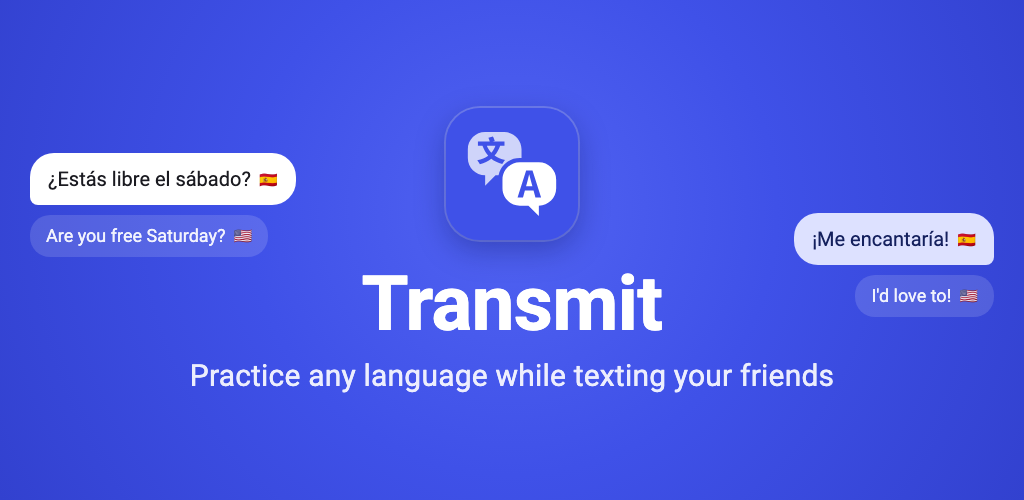
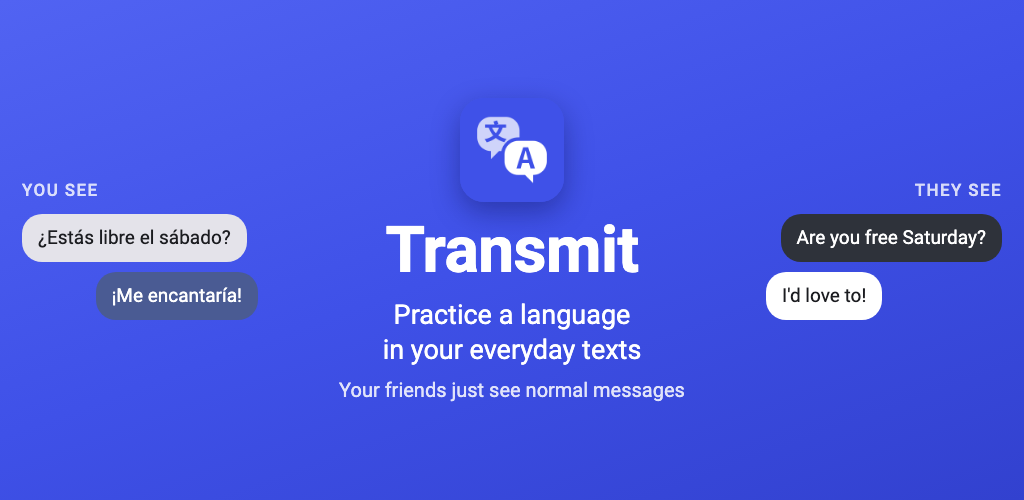
Store graphics: you practice in your real texts, they just see normal ones
New feature graphic and seven screenshots built around the two points the
listing has to land: Transmit works in your SMS and RCS chats, and the
people you text see ordinary messages in their language. Shot 1 shows
Kyle's chat in Spanish beside a generic mockup of what Kyle sees in
English. Captions name the languages instead of saying "practice
language". The friends are Kyle and Rachel, names that aren't Spanish or
Japanese, and Rachel no longer remarks on your Japanese.

All AI text is real managed-model output from the reviewer demo.
make.py re-renders the captioned shots from screenshots/raw/.

Claude-Session: https://claude.ai/code/session_012Mv2KruVcPoPP9SfyyGrdT

diff --git a/docs/launch/store-assets/make.py b/docs/launch/store-assets/make.py
@@ -1,0 +1,159 @@
+import os, sys, subprocess, html
+"""Renders the store graphics: the feature graphic and the captioned screenshots, from screenshots/raw/.
+
+Run with a Python that has Pillow (macOS: /usr/bin/python3 make.py). Needs Google Chrome, Roboto from the Android
+SDK, and the emulator's emoji font, so the mockup's emoji match the screenshots:
+    adb -s emulator-5554 pull /system/fonts/NotoColorEmoji.ttf "$TMPDIR/"
+"""
+import tempfile
+from PIL import Image
+A = os.path.dirname(os.path.abspath(__file__))
+R = A + '/screenshots/raw'
+G = tempfile.mkdtemp(prefix='store-assets-')
+os.makedirs(G + '/out'); os.makedirs(G + '/fonts')
+SDK_FONTS = os.path.expanduser('~/Library/Android/sdk/platforms/android-26/data/fonts')
+for f in ('Roboto-Regular.ttf', 'Roboto-Medium.ttf', 'Roboto-Bold.ttf'):
+    os.symlink(f'{SDK_FONTS}/{f}', f'{G}/fonts/{f}')
+os.symlink(os.path.join(os.environ.get('TMPDIR', '/tmp'), 'NotoColorEmoji.ttf'), f'{G}/fonts/NotoColorEmoji.ttf')
+os.symlink(A + '/icon-512.png', G + '/icon-512.png')
+# The "what you see" card: the chat's top bar and first messages, without the empty space above "Today".
+_im = Image.open(R + '/01-chat.png').convert('RGB')
+_top, _msgs = _im.crop((0, 72, 1080, 215)), _im.crop((0, 400, 1080, 985))
+_card = Image.new('RGB', (1080, _top.height + _msgs.height)); _card.paste(_top, (0, 0)); _card.paste(_msgs, (0, _top.height))
+_card.save(G + '/card-you.png')
+CHROME = '/Applications/Google Chrome.app/Contents/MacOS/Google Chrome'
+
+FONTS = f'''
+@font-face{{font-family:Roboto;font-weight:400;src:url(file://{G}/fonts/Roboto-Regular.ttf)}}
+@font-face{{font-family:Roboto;font-weight:500;src:url(file://{G}/fonts/Roboto-Medium.ttf)}}
+@font-face{{font-family:Roboto;font-weight:700;src:url(file://{G}/fonts/Roboto-Bold.ttf)}}
+@font-face{{font-family:NotoEmoji;src:url(file://{G}/fonts/NotoColorEmoji.ttf)}}
+'''
+BASE = FONTS + '''
+*{box-sizing:border-box}
+html,body{margin:0}
+body{width:1080px;height:1920px;overflow:hidden;position:relative;color:#fff;
+  font-family:Roboto,NotoEmoji,sans-serif;
+  background:linear-gradient(165deg,#5163F2 0%,#3F51E8 48%,#3241CF 100%)}
+.head{position:absolute;left:0;right:0;top:0;display:flex;flex-direction:column;justify-content:center;
+  align-items:center;text-align:center;padding:0 80px}
+h1{margin:0;font-weight:700;font-size:72px;line-height:1.12;letter-spacing:-.5px;text-wrap:balance}
+.sub{margin:26px 0 0;font-size:38px;line-height:1.32;opacity:.9;text-wrap:balance}
+.phone{position:absolute;background:#15161c;border-radius:66px;padding:17px;
+  box-shadow:0 34px 90px rgba(12,18,90,.5)}
+.phone img{display:block;border-radius:50px}
+'''
+
+def page(name, body, css='', w=1080, h=1920):
+    path = f'{G}/out/{name}.html'
+    open(path, 'w').write(f'<!doctype html><html><head><meta charset="utf-8"><style>{BASE}{css}</style></head><body>{body}</body></html>')
+    png = f'{G}/out/{name}.png'
+    subprocess.run([CHROME, '--headless=new', '--disable-gpu', '--hide-scrollbars', '--allow-file-access-from-files',
+                    '--force-device-scale-factor=1', f'--window-size={w},{h}', '--virtual-time-budget=3000',
+                    f'--screenshot={png}', f'file://{path}'], check=True, capture_output=True)
+    # Play takes 24-bit PNGs, without alpha.
+    dest = f'{A}/feature-graphic-1024x500.png' if name == 'feature-graphic' else f'{A}/screenshots/captioned/{name}.png'
+    Image.open(png).convert('RGB').save(dest, optimize=True)
+    return dest
+
+def one_phone(name, raw, title, sub=None):
+    sw = 760; sh = round(sw * 1920 / 1080)          # screen 760 x 1351
+    fw = sw + 34; fh = sh + 34
+    top = 1920 - fh - 64
+    subh = f'<p class="sub">{sub}</p>' if sub else ''
+    body = f'''<div class="head" style="height:{top}px"><h1>{title}</h1>{subh}</div>
+      <div class="phone" style="left:{(1080-fw)//2}px;top:{top}px"><img src="file://{R}/{raw}" width="{sw}" height="{sh}"></div>'''
+    return page(name, body)
+
+# ---- 1: what you see vs what they see -------------------------------------------------------
+def you_vs_them():
+    k = 900 / 1080   # the real screen's scale on the card
+    px = lambda v: f'{v * k:.1f}px'
+    css = f'''
+    .label{{position:absolute;left:90px;font-size:32px;font-weight:500;letter-spacing:.3px;
+      background:rgba(255,255,255,.16);padding:10px 26px;border-radius:999px}}
+    .card{{position:absolute;left:90px;width:900px;border-radius:40px;overflow:hidden;
+      box-shadow:0 26px 70px rgba(12,18,90,.45)}}
+    .card img{{display:block}}
+    .them{{background:#fff;color:#1b1c20;font-family:Roboto,NotoEmoji,sans-serif;padding-bottom:{px(26)}}}
+    .bar{{height:{px(143)};display:flex;align-items:center;padding:0 {px(40)};gap:{px(30)};border-bottom:1px solid #eceef1}}
+    .arrow{{font-size:{px(56)};line-height:1;color:#3a3d44}}
+    .av{{width:{px(94)};height:{px(94)};border-radius:50%;background:#F08A5D;color:#fff;font-weight:500;
+      font-size:{px(44)};display:flex;align-items:center;justify-content:center}}
+    .name{{font-size:{px(40)};font-weight:700}}
+    .msgs{{padding:{px(28)} {px(22)} 0;display:flex;flex-direction:column}}
+    .b{{max-width:{px(735)};font-size:{px(41)};line-height:1.53;padding:{px(26)} {px(32)};border-radius:{px(44)};margin-bottom:{px(6)}}}
+    .out{{align-self:flex-end;background:#2E323A;color:#fff}}
+    .in{{align-self:flex-start;background:#EEF0F3}}
+    .t{{font-size:{px(28)};color:#6b6f78;margin:{px(10)} {px(18)} {px(30)}}}
+    .t.r{{align-self:flex-end}}
+    .foot{{position:absolute;left:0;right:0;top:1822px;text-align:center;font-size:36px;opacity:.92}}
+    '''
+    body = f'''
+    <div class="head" style="height:300px"><h1>You text in Spanish.<br>They see English.</h1></div>
+    <div class="label" style="top:316px">What you see</div>
+    <div class="card" style="top:384px"><img src="file://{G}/card-you.png" width="900"></div>
+    <div class="label" style="top:1024px">What Kyle sees</div>
+    <div class="card them" style="top:1092px">
+      <div class="bar"><span class="arrow">&#8592;</span><div class="av">A</div><span class="name">Alex</span></div>
+      <div class="msgs">
+        <div class="b out">Are you free Saturday? My cousin is visiting and we're going to try the new tapas bar</div>
+        <div class="b out">You should come! 🥘</div>
+        <div class="t r">9:13 AM</div>
+        <div class="b in">I'd love to! What time?</div>
+        <div class="t">9:20 AM</div>
+      </div>
+    </div>
+    <div class="foot">Kyle gets ordinary texts. No app needed.</div>'''
+    return page('01-you-vs-them', body, css)
+
+# ---- 7: a language per chat: two phones ------------------------------------------------------
+def per_chat():
+    sw = 640; sh = round(sw * 1920 / 1080); fw = sw + 34; fh = sh + 34
+    body = f'''<div class="head" style="height:500px"><h1>Spanish with Kyle,<br>Japanese with Rachel</h1>
+      <p class="sub">Pick a language for each chat</p></div>
+      <div class="phone" style="left:44px;top:556px"><img src="file://{R}/01-chat.png" width="{sw}" height="{sh}"></div>
+      <div class="phone" style="left:{1080-44-fw}px;top:646px;box-shadow:-24px 34px 90px rgba(12,18,90,.6)"><img src="file://{R}/07-rachel.png" width="{sw}" height="{sh}"></div>'''
+    return page('07-per-chat', body)
+
+# ---- feature graphic -------------------------------------------------------------------------
+def feature():
+    css = f'''
+    body{{width:1024px;height:500px;background:linear-gradient(160deg,#5163F2 0%,#3F51E8 50%,#3241CF 100%)}}
+    .mid{{position:absolute;left:262px;width:500px;top:0;bottom:0;display:flex;flex-direction:column;align-items:center;justify-content:center;text-align:center}}
+    .mid img{{width:104px;height:104px;border-radius:24px;box-shadow:0 10px 28px rgba(10,15,80,.4)}}
+    .mid .n{{font-size:64px;font-weight:700;margin-top:14px;letter-spacing:-.5px;line-height:1.1}}
+    .mid .l{{font-size:27px;line-height:1.3;margin-top:12px;text-wrap:balance}}
+    .mid .s{{font-size:20px;margin-top:10px;opacity:.85}}
+    .col{{position:absolute;top:0;bottom:0;width:236px;display:flex;flex-direction:column;justify-content:center;gap:10px}}
+    .col.l{{left:22px}} .col.r{{right:22px}}
+    .cap{{font-size:17px;font-weight:500;letter-spacing:1.4px;text-transform:uppercase;opacity:.8;margin-bottom:4px}}
+    .col.r .cap{{text-align:right}}
+    .b{{font-size:19px;line-height:1.35;padding:11px 16px;border-radius:20px;max-width:226px}}
+    .you-in{{align-self:flex-start;background:#E4E3EA;color:#1b1c20}}
+    .you-out{{align-self:flex-end;background:#4A5B93;color:#fff}}
+    .them-out{{align-self:flex-end;background:#2E323A;color:#fff}}
+    .them-in{{align-self:flex-start;background:#fff;color:#1b1c20}}
+    '''
+    body = f'''
+    <div class="col l"><div class="cap">You see</div>
+      <div class="b you-in">¿Estás libre el sábado?</div><div class="b you-out">¡Me encantaría!</div></div>
+    <div class="mid"><img src="file://{G}/icon-512.png"><div class="n">Transmit</div>
+      <div class="l">Practice a language in your everyday texts</div>
+      <div class="s">Your friends just see normal messages</div></div>
+    <div class="col r"><div class="cap">They see</div>
+      <div class="b them-out">Are you free Saturday?</div><div class="b them-in">I'd love to!</div></div>'''
+    return page('feature-graphic', body, css, 1024, 500)
+
+if __name__ == '__main__':
+    outs = [
+        you_vs_them(),
+        one_phone('02-inbox', '02-inbox.png', 'Your real texts, SMS and RCS', "Same number, same chats. Your friends don't install anything."),
+        one_phone('03-original', '03-original.png', 'Read every text in Spanish', 'Stuck? Tap to see what they actually wrote.'),
+        one_phone('04-reply', '04-reply.png', 'Reply in Spanish', 'See the English Kyle will get before you send.'),
+        one_phone('05-check', '05-check.png', 'Get corrected before you hit send', 'Fixes your mistakes and says why.'),
+        one_phone('06-explain', '06-explain.png', 'Understand the grammar, idioms and slang', 'Tap Explain on any message.'),
+        per_chat(),
+        feature(),
+    ]
+    print('\n'.join(outs))

diff --git a/docs/launch/store-assets/README.md b/docs/launch/store-assets/README.md
@@ -1,60 +1,46 @@
 # Google Play store graphics
 
-Made on 2026-11-20 for the Main store listing (`../store-listing.md`, Graphics and Screenshot captions), and retaken the same day with real AI output. Every file's size, format and dimensions were checked by script.
+Remade on 2026-11-21 around one message: you practice a language in your real SMS and RCS chats, and the people you text just see normal messages. The captions name real languages ("Spanish", "English") instead of "practice language" or "native language". Every file's size and format was checked by script.
 
 ## Files
 
 | File | Size | Format | What it is |
 | --- | --- | --- | --- |
-| `icon-512.png` | 512 × 512 | PNG, 32-bit (RGBA, opaque), 13 KB | App icon: the adaptive launcher icon's middle 72 dp (what launchers show) as a full square. Play adds the rounded mask and shadow. Unchanged in the retake. |
-| `feature-graphic-1024x500.png` | 1024 × 500 | PNG, RGB (no alpha), 188 KB | The icon, "Transmit" and "Practice any language while texting your friends" in the middle, with Spanish and English chat bubbles at the edges. The right-hand bubbles sit a little higher than before, to clear the longer line. |
-| `screenshots/captioned/*.png` | 1080 × 1920 | PNG, RGB, 389–514 KB each | The screenshots on the brand colour, in a phone frame, with the caption above. **Upload these.** |
-| `screenshots/raw/*.png` | 1080 × 1920 | PNG, RGB, 145–212 KB each | The same screens as captured, without frame or caption. |
+| `icon-512.png` | 512 × 512 | PNG, 32-bit (RGBA, opaque) | App icon, unchanged since 2026-11-20. Play adds the rounded mask and shadow. |
+| `feature-graphic-1024x500.png` | 1024 × 500 | PNG, RGB (no alpha) | The icon, "Transmit", "Practice a language in your everyday texts" and "Your friends just see normal messages" in the middle. At the edges: "You see" with two Spanish bubbles, and "They see" with the same two in English. A crop of the edges loses only the bubbles. |
+| `screenshots/captioned/*.png` | 1080 × 1920 | PNG, RGB | Captioned screenshots on the brand colour. **Upload these.** |
+| `screenshots/raw/*.png` | 1080 × 1920 | PNG, RGB | The screens as captured, without frame or caption. |
+| `make.py` | | | Renders the feature graphic and the captioned shots from `screenshots/raw/` (see its docstring). Change a caption there and run it again. |
 
-Brand colours: `#3F51E8` (`ic_bg`, the icon's background), with a lighter `#5163F2` and darker `#3241CF` for the gradient. Text is Roboto. Captions break into two balanced lines.
+Brand colours: `#3F51E8` (`ic_bg`), with `#5163F2` and `#3241CF` for the gradient. Text is Roboto.
 
 ## Screenshots, in upload order
 
-| # | File (in `captioned/` and `raw/`) | Screen | Caption |
+| # | File | Screen | Caption · subline |
 | --- | --- | --- | --- |
-| 1 | `01-translated-chat.png` | A chat with Emma, her texts shown in Spanish | Messages from friends, in the language you're practicing |
-| 2 | `02-original.png` | The same chat, one bubble tapped to show the English original | Tap any message to see the original |
-| 3 | `03-reply.png` | The composer: Spanish typed, the English that Emma gets prepared, ready to send | Reply in your practice language. They get it in yours. |
-| 4 | `04-check.png` | Check my translation: the correction as a diff, a more natural version and a note | Check my translation: corrections and a natural version |
-| 5 | `05-explain.png` | The Explain sheet for "Aviso, mi primo habla muchísimo 😂" | Explain: grammar, idioms and slang, phrase by phrase |
-| 6 | `06-romaji.png` | A Japanese chat with Yuki, romaji under the characters, light theme | Pinyin and romaji, the way you like to read |
-| 7 | `07-inbox.png` | The inbox: seven chats with made-up contacts, in Spanish and Japanese | Practice in the chats you already have |
+| 1 | `01-you-vs-them.png` | "What you see": Kyle's chat in Spanish (real screen, cropped). "What Kyle sees": the same messages in English, in a generic messaging screen | **You text in Spanish. They see English.** · Kyle gets ordinary texts. No app needed. |
+| 2 | `02-inbox.png` | The inbox: Kyle, Rachel, a group and four more chats | **Your real texts, SMS and RCS** · Same number, same chats. Your friends don't install anything. |
+| 3 | `03-original.png` | Kyle's chat, with one message tapped to show his English | **Read every text in Spanish** · Stuck? Tap to see what they actually wrote. |
+| 4 | `04-reply.png` | The composer: a Spanish reply, and the English Kyle will get | **Reply in Spanish** · See the English Kyle will get before you send. |
+| 5 | `05-check.png` | Check my translation on that reply: *para* → *de*, a more natural version and a note | **Get corrected before you hit send** · Fixes your mistakes and says why. |
+| 6 | `06-explain.png` | The Explain sheet for "Aviso, mi primo habla mucho 😂" | **Understand the grammar, idioms and slang** · Tap Explain on any message. |
+| 7 | `07-per-chat.png` | Kyle's Spanish chat behind Rachel's Japanese chat, with romaji | **Spanish with Kyle, Japanese with Rachel** · Pick a language for each chat. |
 
-- Upload all seven, in this order.
-- Caption 7 is new (38 characters) and replaces "Works with Google Messages on your phone", which went with the onboarding shot.
-- Caption 8 ("Start with a free week. No card needed.") stays dropped: it's promotional.
+- The contacts have names that are clearly neither Spanish nor Japanese, so the people you text read as your usual friends, not native speakers.
+- Rachel's chat no longer has the old "Your Japanese is getting really good!" line, which gave the practice away.
+- "Kyle's phone" in shot 1 is a mockup, not Transmit, and is labelled as what Kyle sees. It's deliberately generic (dark and light grey bubbles, Roboto, no icons) so it looks like neither Google Messages nor iMessage. The person texting is "Alex".
+- No Google or Google Messages names, logos or colours appear anywhere. "SMS" and "RCS" are standard names.
 
 ## How they were made
 
-- **Device:** the API 36 emulator, with a release build signed with the upload key, so no debug UI shows. The display was set to 1080 × 1920 (`wm size`), because its native 1080 × 2400 is longer than Play's 2:1 limit. The status bar uses SystemUI demo mode: 9:41, Wi-Fi and battery full, no notifications, no mobile signal. The clock was set to 9:41 so the message times fit. Light theme throughout.
-- **AI output is real.** Every translation, the romaji, the English prepared in shot 3, the Check my translation result and the Explain text came from `google/gemma-4-31b-it`, the managed model, at effort Auto. Nothing was written by hand or edited. The calls went through a temporary OpenRouter key ($0.25 limit, in the account's default workspace, not "Transmit Customers"), set as the app's own key with the managed settings: OpenRouter, that model for translation and tutoring, effort Auto, 8 messages of context. The key showed $0.0045 of use (OpenRouter books usage a few minutes late) and was deleted afterwards: a GET for it returns 404.
-- **Temporary code, reverted and never committed:**
-  - fuller sample chats: Emma (Spanish), a new Japanese chat with Yuki, and Leo and Nina for the inbox, besides the demo's group, Jake and Mom;
-  - the DEMO label, demo bar and demo banner hidden; the call button, search bar and Start chat button shown, as in a real inbox and chat;
-  - the own-key extras (costs, model names, budgets) hidden, so the screens look as a subscriber's do;
-  - every message in view translated on open (20 rather than the managed 4), as messages are when they arrive one by one;
-  - the practice-language text in shots 3 and 4 put in the composer by an intent, since adb can't type "¡" or accents. That text is what the user writes, not AI output.
-- **Sample messages changed after seeing the real output:**
-  - Emma's "We booked a table for 8" became "for 8pm": the model read it as a table for eight people ("Reservamos mesa para 8").
-  - Yuki's "Great! I know a good place near the station" became "Yay! I know a great place…": "Great!" came out as 「いいんじゃん！」, which reads oddly.
-  - The Spanish attempt checked in shot 4 ends with a full stop. Without one, the correction added it, and the diff struck out and re-inserted the whole last word ("~~primo~~primo.").
-- **Privacy:** made-up first names and initial avatars only. No phone numbers, photos or real conversations appear.
-- **Graphics:** headless Chrome rendered the icon from the launcher icon's vector paths, the feature graphic, and the captioned frames. Pillow checked and saved the PNGs. The scripts weren't committed; ask if you want them.
+- **Device:** the API 36 emulator with an upload-key release build, at 1080 × 1920 (`wm size`), with SystemUI demo mode (9:41, full Wi-Fi and battery, no notifications). Light theme. The emulator was reset afterwards: display size, demo mode, and the app's data (`pm clear`).
+- **The AI output is real.** Every translation, the romaji, the English in shot 4, the Check my translation result and the Explain text came from the managed model (`google/gemma-4-31b-it`, effort Auto, 8 context messages), through the `transmit-review` key set as the app's own key, in one demo session for shots 1 to 6. Nothing was written or edited by hand. A few sessions were tried. The first said "Aviso previo, mi primo habla mucho", which is stiff, so it was dropped. The retakes used about $0.007 of the key's $3 limit ($0.0085 used in all, $2.99 left).
+- **Temporary code, reverted and never committed:** the screenshot chats (Kyle in Spanish, Rachel in Japanese, a "Beach trip 🏖" group, Mom, Jake, Leo, Nina), with a language per chat and times fixed around 9:41; the Demo label, bar and banner hidden; the call button and Start chat shown; own-key extras hidden; 20 messages translated on open; and a hook that put the Spanish draft in the composer, since adb can't type accents. The draft is what the user writes, not AI output.
+- **A real bug found and fixed (67e41bf):** "住所送るね📍" showed as a big emoji with no bubble and no romaji, because Japanese, Chinese and Korean text with an emoji counted as emoji-only. It's fixed in the app, and shot 7 was taken with the fix.
+- **Privacy:** made-up first names, initial avatars, numbers in the 555-01xx fiction range (never shown). No real chats.
 
 ## For product to review
 
-1. **The icon and the impersonation rule.** `store-listing.md` says the icon mustn't look like the Google Messages icon ("no blue speech bubble"). It's two white speech bubbles on a blue square, and its 文 / A glyphs are close to the Material "translate" symbol that Google Translate's icon also uses. It is the app's real launcher icon. A decision on it is pending.
-2. **Caption 7** is new wording, not from the earlier caption list.
-3. **The real output, as shown:**
-   - "Fair warning, my cousin talks a lot 😂" came out as "Aviso, mi primo habla muchísimo 😂". It's understandable, but "Te aviso" would be more usual. The Explain sheet itself says the one-word "Aviso" is common in texting.
-   - "Cousin" came out as *primo* (male), so the shots say *primo*, where the hand-written set said *prima*.
-   - The Madrid group says *departamento* for apartment, the Latin American word; Spain says *piso*.
-   - The Explain sheet calls *-ísimo* "the superlative" (strictly, the absolute superlative) and calls "Mi primo es muy hablador" "slangy", which it isn't really.
-4. **UI nits seen in shot 4:**
-   - In the Check my translation diff, a deleted word runs straight into the inserted one ("~~para~~**de**" reads as "parade"). A space or gap between them would read better.
-   - A punctuation-only change strikes out and re-inserts the whole word ("~~primo~~primo."). Diffing punctuation apart from the word would avoid it.
+1. **The icon and the impersonation rule** (unchanged, still pending): two white speech bubbles on blue, with 文 / A glyphs close to the Material "translate" symbol.
+2. **Wording:** the captions above are new, apart from the ones the outline already had. "Fixes your mistakes and says why", "Tap Explain on any message" and "Pick a language for each chat" haven't been through the copy review.
+3. **Real output, as shown:** the Beach trip group says *a dos cuadras de la playa*, with the Latin American *cuadras* (Spain says *manzanas*). Explain calls *Aviso* shorthand for "Te doy un aviso", which is fair.

diff --git a/docs/launch/store-listing.md b/docs/launch/store-listing.md
@@ -132,26 +132,26 @@ Decided by the developer on 2026-11-19: Transmit is published from the existing 
 
 ## Graphics
 
-Made on 2026-11-20 and kept in [`store-assets/`](store-assets/README.md), which lists every file with its size and what to review.
+Remade on 2026-11-21 and kept in [`store-assets/`](store-assets/README.md), which lists every file and what to review. The whole set makes two points: Transmit works in your real SMS and RCS chats, and the people you text just see normal messages in their usual language. Captions name the languages ("Spanish", "English") rather than "practice language" or "native language", which read as jargon.
 
 - **App icon:** [`store-assets/icon-512.png`](store-assets/icon-512.png), 512 × 512 32-bit PNG, rendered from the adaptive launcher icon (`ic_launcher_foreground` on `ic_bg`) as a full square; Play adds the mask and shadow. It must have no badges or "new" dots (the Metadata policy bans a "new message dot indicator when there are no new messages"). It mustn't look like the Google Messages icon (no blue speech bubble): the icon is two speech bubbles on blue, so this is on the review list in the README.
-- **Feature graphic:** [`store-assets/feature-graphic-1024x500.png`](store-assets/feature-graphic-1024x500.png), 1024 × 500 PNG without alpha: the icon, the name "Transmit", the line "Practice any language while texting your friends" (the short description, since 2026-11-20), and chat bubbles in Spanish and English at the edges. The icon, name and line are in the middle, so a crop of the edges loses only the bubbles. No Google marks, no "free", no prices.
-- **Phone screenshots:** seven, 1080 × 1920 PNGs, in [`store-assets/screenshots/captioned/`](store-assets/screenshots/captioned/) (captions on the brand colour; upload these) and [`store-assets/screenshots/raw/`](store-assets/screenshots/raw/). They come from the reviewer demo's sample chats on the emulator, with made-up names and no numbers or photos. Since the 2026-11-20 retake, every translation, romanization, correction and explanation in them is real output of the managed model (`google/gemma-4-31b-it`, effort Auto), not text written for the shots.
+- **Feature graphic:** [`store-assets/feature-graphic-1024x500.png`](store-assets/feature-graphic-1024x500.png), 1024 × 500 PNG without alpha: the icon, "Transmit", "Practice a language in your everyday texts" and "Your friends just see normal messages" in the middle; "You see" (Spanish) and "They see" (English) bubbles at the edges, which a crop can lose. No Google marks, no "free", no prices.
+- **Phone screenshots:** seven, 1080 × 1920 PNGs, in [`store-assets/screenshots/captioned/`](store-assets/screenshots/captioned/) (upload these, in order) and [`store-assets/screenshots/raw/`](store-assets/screenshots/raw/). They come from the reviewer demo's sample chats on the emulator, with made-up names, and every translation, romanization, correction and explanation is real output of the managed model. `store-assets/make.py` re-renders them after a caption change.
 
 ## Screenshot captions
 
-| # | Screen to capture | Caption | Characters |
+| # | Screen | Caption | Subline |
 | --- | --- | --- | --- |
-| 1 | A chat with translated incoming bubbles | Messages from friends, in the language you're practicing | 56 |
-| 2 | The same chat with one bubble flipped to the original | Tap any message to see the original | 35 |
-| 3 | The composer with both language boxes filled | Reply in your practice language. They get it in yours. | 54 |
-| 4 | The Check my translation sheet with a diff | Check my translation: corrections and a natural version | 55 |
-| 5 | The Explain sheet | Explain: grammar, idioms and slang, phrase by phrase | 52 |
-| 6 | A Chinese or Japanese chat with pinyin or romaji under the characters | Pinyin and romaji, the way you like to read | 43 |
-| 7 | The inbox (Home), with made-up contacts and a few chats | Practice in the chats you already have | 38 |
-| 8 | Onboarding step 3, or the Plans screen | Start with a free week. No card needed. | 39 |
+| 1 | What you see (Kyle's chat in Spanish) above what Kyle sees (the same texts in English, in a generic messaging screen) | You text in Spanish. They see English. | Kyle gets ordinary texts. No app needed. |
+| 2 | The inbox | Your real texts, SMS and RCS | Same number, same chats. Your friends don't install anything. |
+| 3 | A message tapped to show the original | Read every text in Spanish | Stuck? Tap to see what they actually wrote. |
+| 4 | The composer: Spanish typed, the English prepared | Reply in Spanish | See the English Kyle will get before you send. |
+| 5 | Check my translation | Get corrected before you hit send | Fixes your mistakes and says why. |
+| 6 | The Explain sheet | Understand the grammar, idioms and slang | Tap Explain on any message. |
+| 7 | Kyle's Spanish chat and Rachel's Japanese chat, with romaji | Spanish with Kyle, Japanese with Rachel | Pick a language for each chat. |
 
-- Caption 7 was "Works with Google Messages on your phone" (40), over onboarding step 2, until 2026-11-20. That screen was half empty, so product swapped it for the inbox and a caption that names no brand. Keep every screenshot free of Google's logo and the Messages icon.
-- Caption 8 is promotional. Play's price and promotion ban names the title, icon and developer name, not screenshots, but drop this one if a reviewer objects. **It was dropped from the 2026-11-20 set**, which uses captions 1 to 7.
-- Files: caption *n* is `store-assets/screenshots/captioned/0n-*.png`. Caption 6 is the light theme only (`06-romaji.png`); the dark version was dropped on 2026-11-20.
-- Screenshots of the Plans screen will show the prices of the account they were taken on.
+- The first three carry the message, since most people don't scroll further.
+- Shot 1's second screen is a mockup of the friend's phone, labelled "What Kyle sees". It must keep looking like neither Google Messages nor iMessage.
+- For a listing in another language, swap "English" for that country's language and re-render with `make.py`.
+- The free-week caption ("Start with a free week. No card needed.") stays out: it's promotional.
+- The full description still says "practice language" in a few places. Align it with these captions once they're settled.
